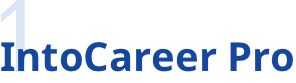
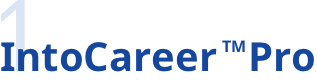
fix

Changed region(s): [[0.0, 0.0, 1.0, 0.8675]]

diff --git a/dist/index.html b/dist/index.html
@@ -1,1 +1,1 @@
-<!DOCTYPE html><html><head><meta charset=utf-8><meta http-equiv=X-UA-Compatible content="IE=edge,chrome=1"><meta name=viewport content="width=device-width,initial-scale=1,maximum-scale=1,user-scalable=no"><link rel=icon href=/favicon.ico><script src=https://rescdn.qqmail.com/node/ww/wwopenmng/js/sso/wwLogin-1.0.0.js></script><title>intocareer</title><link href=/static/css/app.32b2d836.css rel=preload as=style><link href=/static/css/chunk-libs.3dfb7769.css rel=preload as=style><link href=/static/js/app.df8603eb.js rel=preload as=script><link href=/static/js/chunk-elementUI.799fa664.js rel=preload as=script><link href=/static/js/chunk-libs.48d4fa69.js rel=preload as=script><link href=/static/css/chunk-libs.3dfb7769.css rel=stylesheet><link href=/static/css/app.32b2d836.css rel=stylesheet></head><body><noscript><strong>We're sorry but intocareer doesn't work properly without JavaScript enabled. Please enable it to continue.</strong></noscript><div id=app></div><script>(function(e){function c(c){for(var u,t,r=c[0],h=c[1],o=c[2],k=0,b=[];k<r.length;k++)t=r[k],Object.prototype.hasOwnProperty.call(f,t)&&f[t]&&b.push(f[t][0]),f[t]=0;for(u in h)Object.prototype.hasOwnProperty.call(h,u)&&(e[u]=h[u]);d&&d(c);while(b.length)b.shift()();return a.push.apply(a,o||[]),n()}function n(){for(var e,c=0;c<a.length;c++){for(var n=a[c],u=!0,t=1;t<n.length;t++){var r=n[t];0!==f[r]&&(u=!1)}u&&(a.splice(c--,1),e=h(h.s=n[0]))}return e}var u={},t={runtime:0},f={runtime:0},a=[];function r(e){return h.p+"static/js/"+({"chunk-commons":"chunk-commons"}[e]||e)+"."+{"chunk-04bc7bee":"7a81d801","chunk-3b7e6ab8":"9055eed6","chunk-6de69c26":"5b48f096","chunk-747cfb56":"d124e3a4","chunk-7e49f716":"33ef1fcc","chunk-commons":"da9d9a84","chunk-00ac60b0":"abdbc1a4","chunk-0d4e6c44":"c80ffd17","chunk-165f44f4":"141408fa","chunk-18bee4e0":"19921176","chunk-2481a447":"d71aa273","chunk-291772ff":"9e9832d2","chunk-2f5ace8b":"ce47dd04","chunk-408b50f1":"63084ee4","chunk-4f4e8354":"0697b379","chunk-f1b2e456":"7b905714","chunk-43b03fcc":"48c88c2a","chunk-529bf5d8":"617795b9","chunk-64d17f49":"c3502b4c","chunk-6967f37a":"f4f6de64","chunk-6995a694":"151bbc60","chunk-b24d0178":"04bb80cc","chunk-44eb02ff":"ce2ee6d6","chunk-4e590627":"b04ba5a9","chunk-01c99bca":"3230dae6","chunk-91e1be28":"bd6af3cb","chunk-5c19154a":"a47e6408","chunk-5cfe2edb":"e39f4589","chunk-649f025c":"60ae61bf","chunk-4ad230de":"d15b36db","chunk-af090f50":"d0e9eb61","chunk-b7b71f88":"c8b90a21","chunk-83e51276":"833b34e3","chunk-c5437a50":"fd7c11cb","chunk-d3ed9788":"ad4a517f","chunk-e57857cc":"f31692d0"}[e]+".js"}function h(c){if(u[c])return u[c].exports;var n=u[c]={i:c,l:!1,exports:{}};return e[c].call(n.exports,n,n.exports,h),n.l=!0,n.exports}h.e=function(e){var c=[],n={"chunk-3b7e6ab8":1,"chunk-6de69c26":1,"chunk-747cfb56":1,"chunk-7e49f716":1,"chunk-commons":1,"chunk-00ac60b0":1,"chunk-0d4e6c44":1,"chunk-165f44f4":1,"chunk-18bee4e0":1,"chunk-2481a447":1,"chunk-291772ff":1,"chunk-2f5ace8b":1,"chunk-408b50f1":1,"chunk-4f4e8354":1,"chunk-f1b2e456":1,"chunk-529bf5d8":1,"chunk-64d17f49":1,"chunk-6967f37a":1,"chunk-6995a694":1,"chunk-b24d0178":1,"chunk-44eb02ff":1,"chunk-01c99bca":1,"chunk-91e1be28":1,"chunk-5c19154a":1,"chunk-5cfe2edb":1,"chunk-4ad230de":1,"chunk-af090f50":1,"chunk-b7b71f88":1,"chunk-83e51276":1,"chunk-c5437a50":1,"chunk-e57857cc":1};t[e]?c.push(t[e]):0!==t[e]&&n[e]&&c.push(t[e]=new Promise((function(c,n){for(var u="static/css/"+({"chunk-commons":"chunk-commons"}[e]||e)+"."+{"chunk-04bc7bee":"31d6cfe0","chunk-3b7e6ab8":"44e97e00","chunk-6de69c26":"a73ba4fe","chunk-747cfb56":"01644d08","chunk-7e49f716":"88b334d8","chunk-commons":"ed844903","chunk-00ac60b0":"e145f2fe","chunk-0d4e6c44":"7602e563","chunk-165f44f4":"2cff9823","chunk-18bee4e0":"93120782","chunk-2481a447":"080c4951","chunk-291772ff":"0e5e4bf6","chunk-2f5ace8b":"9a7ea326","chunk-408b50f1":"6dc57fe0","chunk-4f4e8354":"5e5a78f7","chunk-f1b2e456":"2d176a5c","chunk-43b03fcc":"31d6cfe0","chunk-529bf5d8":"5b0a4f17","chunk-64d17f49":"bc026578","chunk-6967f37a":"2c328cc9","chunk-6995a694":"44a8fbb5","chunk-b24d0178":"e896ae4c","chunk-44eb02ff":"a139fbc6","chunk-4e590627":"31d6cfe0","chunk-01c99bca":"c2b02ea0","chunk-91e1be28":"7469ced3","chunk-5c19154a":"d6901400","chunk-5cfe2edb":"eb1cee4a","chunk-649f025c":"31d6cfe0","chunk-4ad230de":"2e694268","chunk-af090f50":"f81e0acb","chunk-b7b71f88":"cbfdee18","chunk-83e51276":"b0494e71","chunk-c5437a50":"794f9868","chunk-d3ed9788":"31d6cfe0","chunk-e57857cc":"1557c12f"}[e]+".css",f=h.p+u,a=document.getElementsByTagName("link"),r=0;r<a.length;r++){var o=a[r],k=o.getAttribute("data-href")||o.getAttribute("href");if("stylesheet"===o.rel&&(k===u||k===f))return c()}var b=document.getElementsByTagName("style");for(r=0;r<b.length;r++){o=b[r],k=o.getAttribute("data-href");if(k===u||k===f)return c()}var d=document.createElement("link");d.rel="stylesheet",d.type="text/css",d.onload=c,d.onerror=function(c){var u=c&&c.target&&c.target.src||f,a=new Error("Loading CSS chunk "+e+" failed.\n("+u+")");a.code="CSS_CHUNK_LOAD_FAILED",a.request=u,delete t[e],d.parentNode.removeChild(d),n(a)},d.href=f;var i=document.getElementsByTagName("head")[0];i.appendChild(d)})).then((function(){t[e]=0})));var u=f[e];if(0!==u)if(u)c.push(u[2]);else{var a=new Promise((function(c,n){u=f[e]=[c,n]}));c.push(u[2]=a);var o,k=document.createElement("script");k.charset="utf-8",k.timeout=120,h.nc&&k.setAttribute("nonce",h.nc),k.src=r(e);var b=new Error;o=function(c){k.onerror=k.onload=null,clearTimeout(d);var n=f[e];if(0!==n){if(n){var u=c&&("load"===c.type?"missing":c.type),t=c&&c.target&&c.target.src;b.message="Loading chunk "+e+" failed.\n("+u+": "+t+")",b.name="ChunkLoadError",b.type=u,b.request=t,n[1](b)}f[e]=void 0}};var d=setTimeout((function(){o({type:"timeout",target:k})}),12e4);k.onerror=k.onload=o,document.head.appendChild(k)}return Promise.all(c)},h.m=e,h.c=u,h.d=function(e,c,n){h.o(e,c)||Object.defineProperty(e,c,{enumerable:!0,get:n})},h.r=function(e){"undefined"!==typeof Symbol&&Symbol.toStringTag&&Object.defineProperty(e,Symbol.toStringTag,{value:"Module"}),Object.defineProperty(e,"__esModule",{value:!0})},h.t=function(e,c){if(1&c&&(e=h(e)),8&c)return e;if(4&c&&"object"===typeof e&&e&&e.__esModule)return e;var n=Object.create(null);if(h.r(n),Object.defineProperty(n,"default",{enumerable:!0,value:e}),2&c&&"string"!=typeof e)for(var u in e)h.d(n,u,function(c){return e[c]}.bind(null,u));return n},h.n=function(e){var c=e&&e.__esModule?function(){return e["default"]}:function(){return e};return h.d(c,"a",c),c},h.o=function(e,c){return Object.prototype.hasOwnProperty.call(e,c)},h.p="/",h.oe=function(e){throw console.error(e),e};var o=window["webpackJsonp"]=window["webpackJsonp"]||[],k=o.push.bind(o);o.push=c,o=o.slice();for(var b=0;b<o.length;b++)c(o[b]);var d=k;n()})([]);</script><script src=/static/js/chunk-elementUI.799fa664.js></script><script src=/static/js/chunk-libs.48d4fa69.js></script><script src=/static/js/app.df8603eb.js></script></body></html>
+<!DOCTYPE html><html><head><meta charset=utf-8><meta http-equiv=X-UA-Compatible content="IE=edge,chrome=1"><meta name=viewport content="width=device-width,initial-scale=1,maximum-scale=1,user-scalable=no"><link rel=icon href=/favicon.ico><script src=https://rescdn.qqmail.com/node/ww/wwopenmng/js/sso/wwLogin-1.0.0.js></script><title>intocareer</title><link href=/static/css/app.c25a89f0.css rel=preload as=style><link href=/static/css/chunk-libs.3dfb7769.css rel=preload as=style><link href=/static/js/app.230d2738.js rel=preload as=script><link href=/static/js/chunk-elementUI.799fa664.js rel=preload as=script><link href=/static/js/chunk-libs.48d4fa69.js rel=preload as=script><link href=/static/css/chunk-libs.3dfb7769.css rel=stylesheet><link href=/static/css/app.c25a89f0.css rel=stylesheet></head><body><noscript><strong>We're sorry but intocareer doesn't work properly without JavaScript enabled. Please enable it to continue.</strong></noscript><div id=app></div><script>(function(e){function c(c){for(var u,t,r=c[0],h=c[1],o=c[2],k=0,b=[];k<r.length;k++)t=r[k],Object.prototype.hasOwnProperty.call(a,t)&&a[t]&&b.push(a[t][0]),a[t]=0;for(u in h)Object.prototype.hasOwnProperty.call(h,u)&&(e[u]=h[u]);d&&d(c);while(b.length)b.shift()();return f.push.apply(f,o||[]),n()}function n(){for(var e,c=0;c<f.length;c++){for(var n=f[c],u=!0,t=1;t<n.length;t++){var r=n[t];0!==a[r]&&(u=!1)}u&&(f.splice(c--,1),e=h(h.s=n[0]))}return e}var u={},t={runtime:0},a={runtime:0},f=[];function r(e){return h.p+"static/js/"+({"chunk-commons":"chunk-commons"}[e]||e)+"."+{"chunk-04bc7bee":"7a81d801","chunk-3b7e6ab8":"9055eed6","chunk-6de69c26":"5b48f096","chunk-747cfb56":"d124e3a4","chunk-7e49f716":"33ef1fcc","chunk-commons":"56172138","chunk-00ac60b0":"abdbc1a4","chunk-165f44f4":"141408fa","chunk-18bee4e0":"19921176","chunk-291772ff":"9e9832d2","chunk-2f5ace8b":"ce47dd04","chunk-33644d1e":"d7fd05db","chunk-408b50f1":"63084ee4","chunk-4f4e8354":"0697b379","chunk-f1b2e456":"7b905714","chunk-43b03fcc":"48c88c2a","chunk-0aab99e4":"0f670088","chunk-64d17f49":"c3502b4c","chunk-6967f37a":"f4f6de64","chunk-6995a694":"151bbc60","chunk-b24d0178":"04bb80cc","chunk-44eb02ff":"ce2ee6d6","chunk-4e590627":"b04ba5a9","chunk-01c99bca":"3230dae6","chunk-91e1be28":"bd6af3cb","chunk-5cfe2edb":"e39f4589","chunk-649f025c":"60ae61bf","chunk-4ad230de":"d15b36db","chunk-af090f50":"d0e9eb61","chunk-b7b71f88":"c8b90a21","chunk-83e51276":"833b34e3","chunk-c0db14ca":"e840c6be","chunk-c5437a50":"fd7c11cb","chunk-cdc1e4a4":"3cf9d084","chunk-d3ed9788":"ad4a517f","chunk-e57857cc":"f31692d0","chunk-f729a770":"cc68fed8"}[e]+".js"}function h(c){if(u[c])return u[c].exports;var n=u[c]={i:c,l:!1,exports:{}};return e[c].call(n.exports,n,n.exports,h),n.l=!0,n.exports}h.e=function(e){var c=[],n={"chunk-3b7e6ab8":1,"chunk-6de69c26":1,"chunk-747cfb56":1,"chunk-7e49f716":1,"chunk-commons":1,"chunk-00ac60b0":1,"chunk-165f44f4":1,"chunk-18bee4e0":1,"chunk-291772ff":1,"chunk-2f5ace8b":1,"chunk-33644d1e":1,"chunk-408b50f1":1,"chunk-4f4e8354":1,"chunk-f1b2e456":1,"chunk-0aab99e4":1,"chunk-64d17f49":1,"chunk-6967f37a":1,"chunk-6995a694":1,"chunk-b24d0178":1,"chunk-44eb02ff":1,"chunk-01c99bca":1,"chunk-91e1be28":1,"chunk-5cfe2edb":1,"chunk-4ad230de":1,"chunk-af090f50":1,"chunk-b7b71f88":1,"chunk-83e51276":1,"chunk-c0db14ca":1,"chunk-c5437a50":1,"chunk-cdc1e4a4":1,"chunk-e57857cc":1,"chunk-f729a770":1};t[e]?c.push(t[e]):0!==t[e]&&n[e]&&c.push(t[e]=new Promise((function(c,n){for(var u="static/css/"+({"chunk-commons":"chunk-commons"}[e]||e)+"."+{"chunk-04bc7bee":"31d6cfe0","chunk-3b7e6ab8":"44e97e00","chunk-6de69c26":"a73ba4fe","chunk-747cfb56":"01644d08","chunk-7e49f716":"88b334d8","chunk-commons":"ea2d9cfb","chunk-00ac60b0":"e145f2fe","chunk-165f44f4":"2cff9823","chunk-18bee4e0":"93120782","chunk-291772ff":"0e5e4bf6","chunk-2f5ace8b":"9a7ea326","chunk-33644d1e":"74d96e7f","chunk-408b50f1":"6dc57fe0","chunk-4f4e8354":"5e5a78f7","chunk-f1b2e456":"2d176a5c","chunk-43b03fcc":"31d6cfe0","chunk-0aab99e4":"56829c7e","chunk-64d17f49":"bc026578","chunk-6967f37a":"2c328cc9","chunk-6995a694":"44a8fbb5","chunk-b24d0178":"e896ae4c","chunk-44eb02ff":"a139fbc6","chunk-4e590627":"31d6cfe0","chunk-01c99bca":"c2b02ea0","chunk-91e1be28":"7469ced3","chunk-5cfe2edb":"eb1cee4a","chunk-649f025c":"31d6cfe0","chunk-4ad230de":"2e694268","chunk-af090f50":"f81e0acb","chunk-b7b71f88":"cbfdee18","chunk-83e51276":"b0494e71","chunk-c0db14ca":"ac2612ba","chunk-c5437a50":"794f9868","chunk-cdc1e4a4":"02c8a1af","chunk-d3ed9788":"31d6cfe0","chunk-e57857cc":"1557c12f","chunk-f729a770":"68d662f0"}[e]+".css",a=h.p+u,f=document.getElementsByTagName("link"),r=0;r<f.length;r++){var o=f[r],k=o.getAttribute("data-href")||o.getAttribute("href");if("stylesheet"===o.rel&&(k===u||k===a))return c()}var b=document.getElementsByTagName("style");for(r=0;r<b.length;r++){o=b[r],k=o.getAttribute("data-href");if(k===u||k===a)return c()}var d=document.createElement("link");d.rel="stylesheet",d.type="text/css",d.onload=c,d.onerror=function(c){var u=c&&c.target&&c.target.src||a,f=new Error("Loading CSS chunk "+e+" failed.\n("+u+")");f.code="CSS_CHUNK_LOAD_FAILED",f.request=u,delete t[e],d.parentNode.removeChild(d),n(f)},d.href=a;var i=document.getElementsByTagName("head")[0];i.appendChild(d)})).then((function(){t[e]=0})));var u=a[e];if(0!==u)if(u)c.push(u[2]);else{var f=new Promise((function(c,n){u=a[e]=[c,n]}));c.push(u[2]=f);var o,k=document.createElement("script");k.charset="utf-8",k.timeout=120,h.nc&&k.setAttribute("nonce",h.nc),k.src=r(e);var b=new Error;o=function(c){k.onerror=k.onload=null,clearTimeout(d);var n=a[e];if(0!==n){if(n){var u=c&&("load"===c.type?"missing":c.type),t=c&&c.target&&c.target.src;b.message="Loading chunk "+e+" failed.\n("+u+": "+t+")",b.name="ChunkLoadError",b.type=u,b.request=t,n[1](b)}a[e]=void 0}};var d=setTimeout((function(){o({type:"timeout",target:k})}),12e4);k.onerror=k.onload=o,document.head.appendChild(k)}return Promise.all(c)},h.m=e,h.c=u,h.d=function(e,c,n){h.o(e,c)||Object.defineProperty(e,c,{enumerable:!0,get:n})},h.r=function(e){"undefined"!==typeof Symbol&&Symbol.toStringTag&&Object.defineProperty(e,Symbol.toStringTag,{value:"Module"}),Object.defineProperty(e,"__esModule",{value:!0})},h.t=function(e,c){if(1&c&&(e=h(e)),8&c)return e;if(4&c&&"object"===typeof e&&e&&e.__esModule)return e;var n=Object.create(null);if(h.r(n),Object.defineProperty(n,"default",{enumerable:!0,value:e}),2&c&&"string"!=typeof e)for(var u in e)h.d(n,u,function(c){return e[c]}.bind(null,u));return n},h.n=function(e){var c=e&&e.__esModule?function(){return e["default"]}:function(){return e};return h.d(c,"a",c),c},h.o=function(e,c){return Object.prototype.hasOwnProperty.call(e,c)},h.p="/",h.oe=function(e){throw console.error(e),e};var o=window["webpackJsonp"]=window["webpackJsonp"]||[],k=o.push.bind(o);o.push=c,o=o.slice();for(var b=0;b<o.length;b++)c(o[b]);var d=k;n()})([]);</script><script src=/static/js/chunk-elementUI.799fa664.js></script><script src=/static/js/chunk-libs.48d4fa69.js></script><script src=/static/js/app.230d2738.js></script></body></html>

diff --git a/src/views/home/index.vue b/src/views/home/index.vue
@@ -64,11 +64,11 @@
       <div class="consultants-part">
         <h1>IntoCareer<sup>TM</sup> 咨询师团队</h1>
         <div>
-          <p>在IntoCareer 平台，每天都有来自各个行业领域的职场达人和资深HR成为咨询师，</p>
-          <p>他们共同构建成IntoCareer 职场达人网络与职场知识矩阵。</p>
+          <p>在IntoCareer<sup>TM</sup> 平台，每天都有来自各个行业领域的职场达人和资深HR成为咨询师，</p>
+          <p>他们共同构建成IntoCareer<sup>TM</sup> 职场达人网络与职场知识矩阵。</p>
         </div>
         <div>
-          <p>每一位入驻IntoCareer 的咨询师，都经过了平台严格的把关和筛选，他们在行业领域具备领先的工作经验，</p>
+          <p>每一位入驻IntoCareer<sup>TM</sup> 的咨询师，都经过了平台严格的把关和筛选，他们在行业领域具备领先的工作经验，</p>
           <p>以最贴近真实职场的经验和建议为你解答个性化求职问题，快来这里找到你的专属职场咨询师吧！</p>
         </div>
       </div>
@@ -405,7 +405,7 @@ export default {
   margin-top: 100px;
 }
 .s-content img {
-  width: 296px;
+  width: 310px;
   height: 83px;
 }
 .s-content h1 {

diff --git a/src/views/home/service.vue b/src/views/home/service.vue
@@ -72,7 +72,7 @@
         </div>
       </div>
     </section>
-    <div class="submit-btn">立即注册</div>
+    <div class="submit-btn" @click="goReg">立即注册</div>
     <foot-bar />
   </div>
 </template>
@@ -140,6 +140,9 @@ export default {
     window.removeEventListener("scroll", this.onScroll);
   },
   methods: {
+    goReg() {
+      this.$router.push('/register/consumer')
+    },
     onScroll() {
       const bodyHeight =
         document.documentElement.clientHeight || window.innerHeight;
@@ -161,6 +164,7 @@ export default {
   background: #292e3d;
   position: sticky;
   top: 0px;
+  z-index: 10000;
 }
 .service-banner {
   min-width: 1180px;
@@ -290,7 +294,7 @@ export default {
   margin: 0 auto;
 }
 .s-content img {
-  width: 296px;
+  width: 310px;
   height: 83px;
 }
 .s-content h1 {

diff --git a/src/views/home/plan.vue b/src/views/home/plan.vue
@@ -17,7 +17,7 @@
         <p>
           如果优秀的你想要变得更优秀
         </p>
-        <p>快来加入IntoCareer 校园团队吧</p>
+        <p>快来加入IntoCareer<sup>TM</sup> 校园团队吧</p>
       </div>
       <div class="you-will">
         <h1>你将收获…</h1>
@@ -81,6 +81,7 @@ export default {
   background: #292e3d;
   position: sticky;
   top: 0px;
+  z-index: 10000;
 }
 .about-banner {
   min-width: 1180px;
@@ -120,7 +121,7 @@ export default {
 }
 .contact-us p {
   margin: 0 auto;
-  width: 700px;
+  width: 710px;
   font-size: 18px;
   font-weight: 300;
   color: #434d57;

diff --git a/src/components/TopNavbar/index.vue b/src/components/TopNavbar/index.vue
@@ -24,8 +24,8 @@
     </el-dropdown-menu>
   </el-dropdown>
   <div class="top-btns flex-hbc" v-else>
-    <div class="sign-in" @click="action(1)">登录</div>
-    <div class="sign-up" @click="action(2)">免费注册</div>
+    <div class="sign-in" @click="action(1)">登录 / 注册</div>
+    <!-- <div class="sign-up" @click="action(2)">免费注册</div> -->
   </div>
   <login
     id="login"

diff --git a/src/layout/components/FootBar/index.vue b/src/layout/components/FootBar/index.vue
@@ -28,7 +28,8 @@ export default {
     return {
       links: [
         { name: '咨询服务', path: '/service' },
-        { name: '关于我们', path: '/about' }
+        { name: '关于我们', path: '/about' },
+        { name: '校园计划', path: '/plan' },
       ],
       icons: [
         { code: 'iconfont iconweixin' },

diff --git a/vue.config.js b/vue.config.js
@@ -31,7 +31,7 @@ module.exports = {
   lintOnSave: false,
   productionSourceMap: false,
   devServer: {
-    host: '192.168.2.114',
+    host: '0.0.0.0',
     port: port,
     open: true,
     overlay: {
